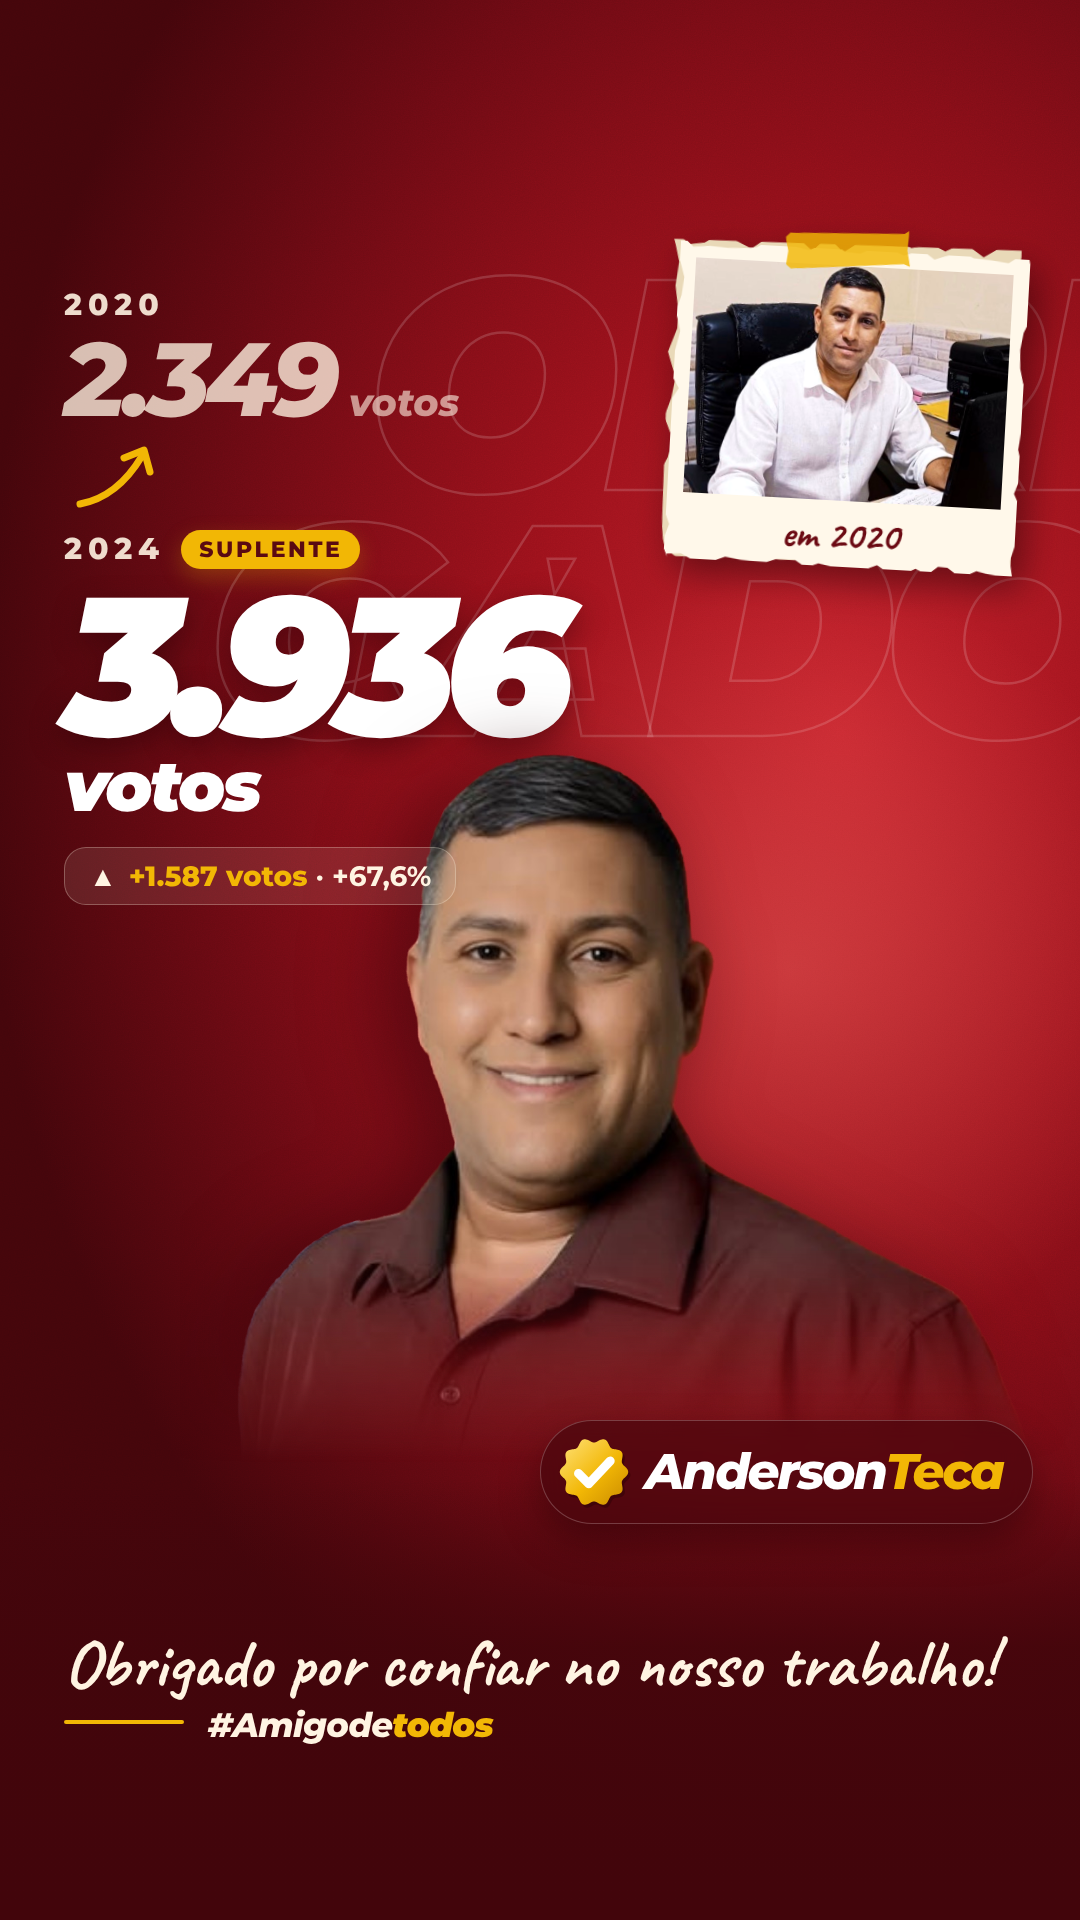
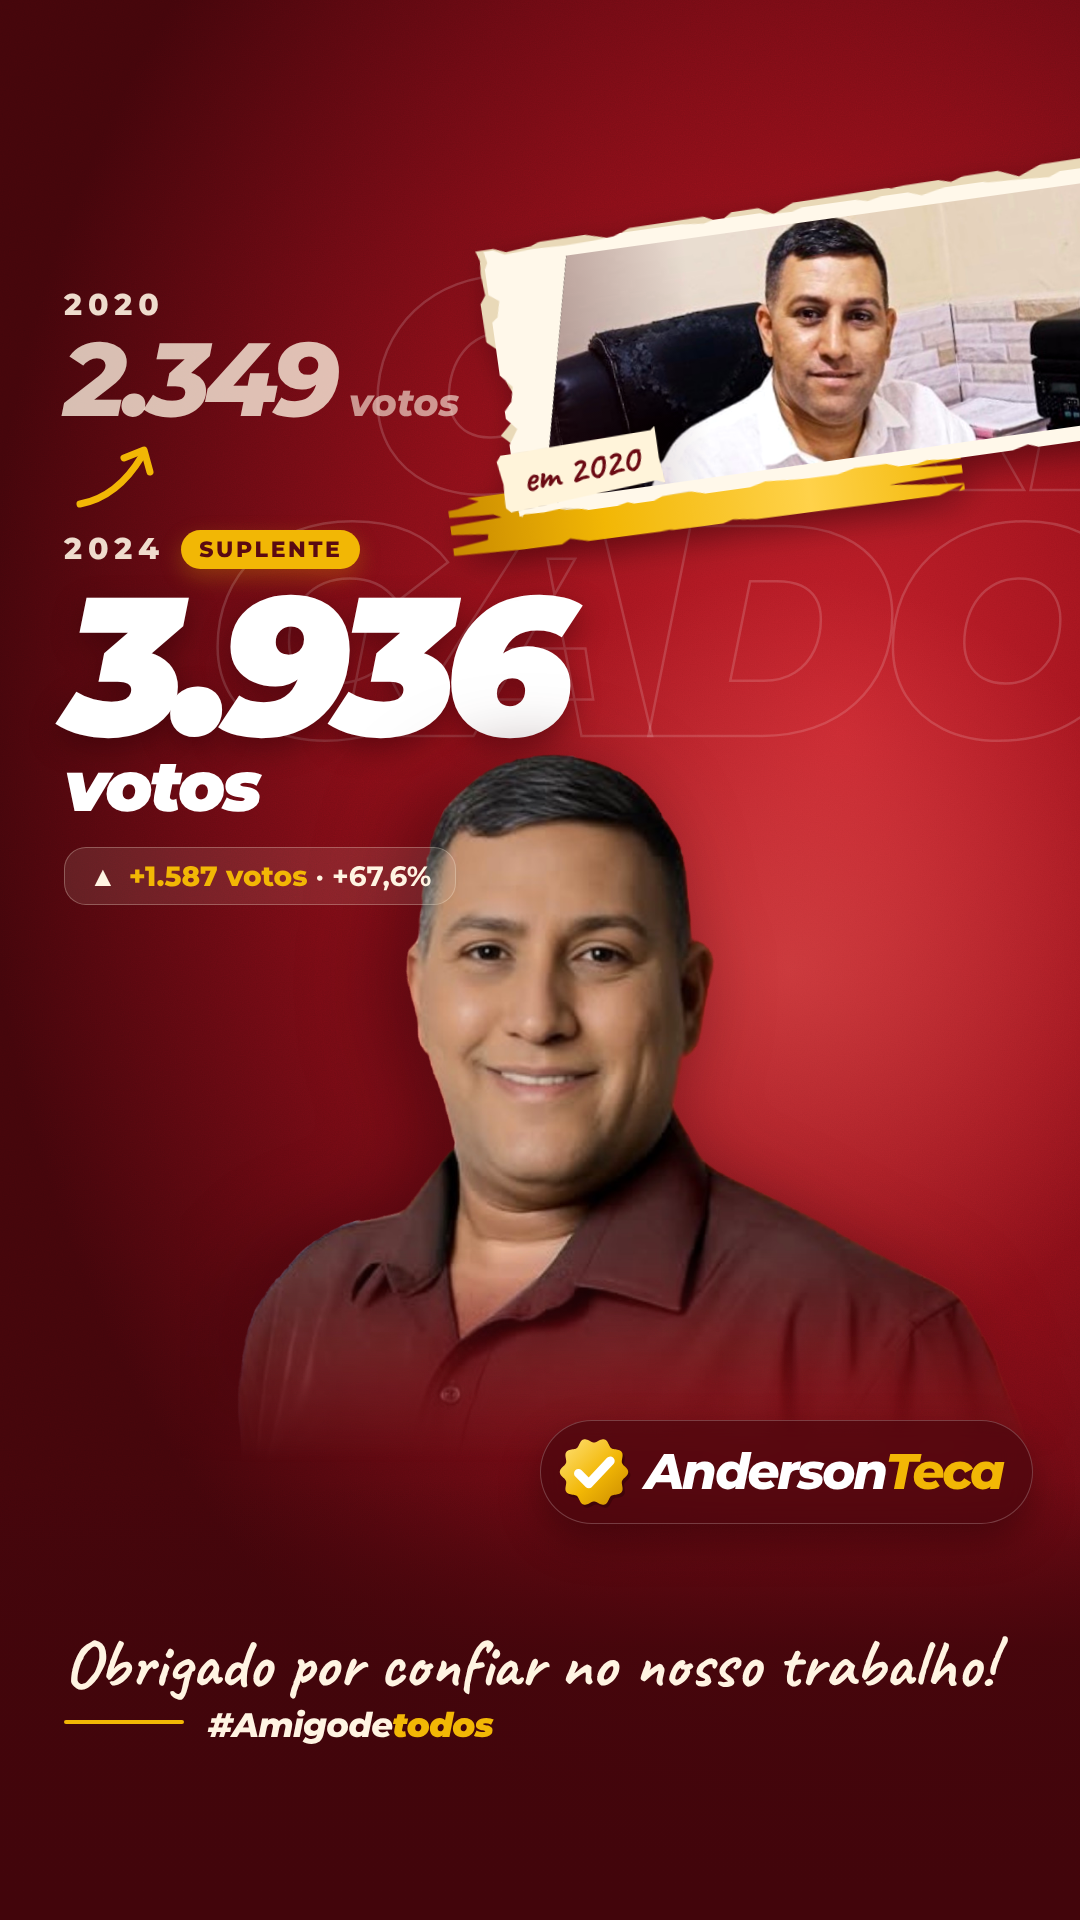
Anderson Teca v4: foto de 2020 em faixa diagonal de papel rasgado
Claude-Session: https://claude.ai/code/session_01Y4FBjftjKYjL6a6dxycj4C

Changed region(s): [[0.3972, 0.0625, 1.0, 0.3125]]

diff --git a/artes-clientes/anderson-teca/arte.html b/artes-clientes/anderson-teca/arte.html
@@ -32,14 +32,17 @@
   .n24 .v { font:italic 900 70px/1 'Montserrat'; letter-spacing:-.04em; color:#fff; margin-top:4px }
   .chip { position:relative; z-index:4; display:inline-flex; align-items:center; gap:12px; margin-top:26px; padding:14px 24px; border-radius:22px; background:rgba(255,244,226,.1); border:1.5px solid rgba(255,244,226,.28); font:700 28px/1 'Montserrat'; color:var(--cream) }
   .chip b { font-weight:800; color:var(--gold) }
-  /* recorte de papel com a foto de 2020 */
-  #p20 { z-index:2; transform-origin:50% 50%; filter:drop-shadow(10px 14px 18px rgba(30,0,4,.5)) }
+  /* faixa diagonal de papel rasgado com a foto de 2020 */
+  #p20 { z-index:2; transform-origin:50% 50% }
+  #p20 .wrap { position:absolute; inset:0; filter:drop-shadow(8px 12px 16px rgba(30,0,4,.5)) }
+  #p20 .stroke { position:absolute; background:linear-gradient(90deg,#C98A00,#F2B705 30%,#FFD24A 70%,#F2B705) }
   #p20 .back { position:absolute; inset:0; background:#E9D9B8 }
   #p20 .sheet { position:absolute; inset:0; background:#FFF8EA }
   #p20 .ph { position:absolute; overflow:hidden; background:#000 }
-  #p20 .ph img { width:100%; height:100%; object-fit:cover; object-position:50% 32%; display:block; filter:contrast(1.04) saturate(1.05) }
-  #p20 .cap { position:absolute; left:0; right:0; text-align:center; font:700 40px/1 'Caveat'; color:#6B0A13; transform:rotate(-1.5deg) }
-  #p20 .tape { position:absolute; width:124px; height:36px; background:rgba(242,183,5,.82); box-shadow:0 4px 10px rgba(40,0,6,.25); clip-path:polygon(0 12%,4% 0,96% 8%,100% 0,98% 55%,100% 100%,95% 92%,4% 100%,0 88%,2% 50%) }
+  #p20 .ph img { position:absolute; inset:0; width:100%; height:100%; object-fit:cover; object-position:50% 4%; display:block; filter:contrast(1.05) saturate(1.06) }
+  #p20 .ph::after { content:''; position:absolute; inset:0; background:linear-gradient(90deg,rgba(60,6,12,.34),rgba(60,6,12,0) 28%) }
+  #p20 .lbl { position:absolute; padding:8px 22px 10px; background:#FFF4DA; color:#6B0A13; font:700 40px/1 'Caveat'; transform:rotate(-3deg); box-shadow:0 6px 14px rgba(30,0,4,.4);
+    clip-path:polygon(0 10%,3% 0,97% 6%,100% 0,99% 55%,100% 100%,95% 93%,3% 100%,0 90%,1.5% 50%) }
   /* rodapé */
   #foot { z-index:4; left:0; width:1080px; background:linear-gradient(180deg,rgba(66,5,11,0),rgba(66,5,11,.85) 38%,#42050B) }
   #thanks { z-index:6; left:64px; right:64px; font:700 68px/1 'Caveat'; color:var(--cream); white-space:nowrap }
@@ -61,7 +64,7 @@
     <div class="n24"><div class="n">3.936</div><div class="v">votos</div></div>
     <div class="chip">▲ <span><b>+1.587 votos</b> · +67,6%</span></div>
   </div>
-  <div class="abs" id="p20"><div class="back"></div><div class="sheet"></div><div class="ph"><img src="work/anderson2020.jpg"></div><div class="cap">em 2020</div><div class="tape"></div></div>
+  <div class="abs" id="p20"><div class="wrap"><div class="stroke"></div><div class="back"></div><div class="sheet"></div><div class="ph"><img src="work/anderson2020.jpg"></div><div class="lbl">em 2020</div></div></div>
   <div class="abs" id="logo"><svg width="74" height="74" viewBox="-50 -50 100 100" id="check"></svg><div class="wm">Anderson<b>Teca</b></div></div>
   <div class="abs" id="thanks">Obrigado por confiar no nosso trabalho!</div>
   <div class="abs" id="rule"></div>
@@ -69,8 +72,8 @@
 </div>
 <script>
 const F = new URLSearchParams(location.search).get('f') || 'feed'
-const L = { feed:  { p20:[684, 60, 330, 3.2], H:1350, ghost:120, glow:[380, 120], me:[345, 300, 860],  logo:[560, 1010], col:96,  foot:[1050, 300], thanks:1180, rule:1268, tag:1256 },
-            story: { p20:[672, 250, 350, 3.2], H:1920, ghost:260, glow:[340, 520], me:[180, 640, 1000], logo:[540, 1420], col:290, foot:[1480, 440], thanks:1630, rule:1720, tag:1708 } }[F]
+const L = { feed:  { p20:[528, 60, 640, 250, -8], H:1350, ghost:120, glow:[380, 120], me:[345, 300, 860],  logo:[560, 1010], col:96,  foot:[1050, 300], thanks:1180, rule:1268, tag:1256 },
+            story: { p20:[498, 205, 660, 270, -8], H:1920, ghost:260, glow:[340, 520], me:[180, 640, 1000], logo:[540, 1420], col:290, foot:[1480, 440], thanks:1630, rule:1720, tag:1708 } }[F]
 const $ = id => document.getElementById(id), art = $('art')
 art.style.height = L.H + 'px'; document.body.style.height = L.H + 'px'
 $('ghost').style.top = L.ghost + 'px'
@@ -93,12 +96,16 @@ const tornPoly = (amp, step) => { const pts = []; const N = 14
   for (let x = 100; x >= 0; x -= step + rnd() * step) pts.push([x, 100 + (rnd() - .5) * amp])
   for (let y = 100; y >= 0; y -= step * 1.6 + rnd() * step) pts.push([(rnd() - .5) * amp, y])
   return 'polygon(' + pts.map(([x, y]) => x.toFixed(1) + '% ' + y.toFixed(1) + '%').join(',') + ')' }
-{ const [l, t, w, rot] = L.p20, pad = 16, ph = Math.round((w - pad * 2) * 0.74), h = pad + ph + 66
+{ const [l, t, w, h, rot] = L.p20, pad = 15
   const e = $('p20'); e.style.cssText += `left:${l}px;top:${t}px;width:${w}px;height:${h}px;transform:rotate(${rot}deg)`
-  e.querySelector('.back').style.clipPath = tornPoly(5.5, 3.2); e.querySelector('.back').style.transform = 'translate(-6px,-5px) rotate(-1.2deg)'
-  sd = 41; e.querySelector('.sheet').style.clipPath = tornPoly(3.6, 2.6)
-  const f = e.querySelector('.ph'); f.style.cssText += `left:${pad}px;top:${pad}px;width:${w - pad * 2}px;height:${ph}px`
-  const c = e.querySelector('.cap'); c.style.top = (pad + ph + 14) + 'px'
-  const tp = e.querySelector('.tape'); tp.style.left = (w / 2 - 70) + 'px'; tp.style.top = '-18px'; tp.style.transform = 'rotate(-4deg)' }
+  const q = e.querySelector('.back'); q.style.clipPath = tornPoly(7, 3); q.style.transform = 'translate(-8px,-6px) rotate(-.8deg)'
+  sd = 41; e.querySelector('.sheet').style.clipPath = tornPoly(4.2, 2.4)
+  const f = e.querySelector('.ph'); f.style.left = (pad + 12) + 'px'; f.style.top = pad + 'px'; f.style.width = (w - pad * 2 - 12) + 'px'; f.style.height = (h - pad * 2) + 'px'
+  f.style.clipPath = 'polygon(9% 0,100% 0,100% 100%,0 100%)'   // corte diagonal na ponta esquerda
+  // faixa dourada de pincel espiando por baixo, como nas referências
+  const st = e.querySelector('.stroke'); sd = 77
+  st.style.left = '-70px'; st.style.width = (w * .78) + 'px'; st.style.top = (h - 26) + 'px'; st.style.height = '58px'
+  st.style.clipPath = tornPoly(30, 4); st.style.transform = 'rotate(.6deg)'
+  const lb = e.querySelector('.lbl'); lb.style.left = '-14px'; lb.style.top = (h - 70) + 'px' }
 window.ready = document.fonts.ready.then(() => $('me').decode())
 </script></body></html>

diff --git a/artes-clientes/anderson-teca/LEIAME.md b/artes-clientes/anderson-teca/LEIAME.md
@@ -1,6 +1,6 @@
 # Anderson Teca: agradecimento pelos votos (feed 1080×1350 e story 1080×1920)
 
 Dados (prints do app Politique, Nova Iguaçu, vereador): 2020 = 2.349 votos; 2024 = 3.936 votos.
-2024: suplente (2020 sem rótulo; foto de 2020 em recorte de papel, work/anderson2020.jpg). Diferença: +1.587 votos (+67,6%). Sem número de urna e sem logo de partido.
+2024: suplente (2020 sem rótulo; foto de 2020 em faixa diagonal de papel rasgado com pincel dourado, work/anderson2020.jpg). Diferença: +1.587 votos (+67,6%). Sem número de urna e sem logo de partido.
 Versão 2: vinho/carmim com dourado só nos detalhes (sem cara de fast-food); foto do Anderson sozinho na lateral (work/anderson.png, recorte por work/cut2.py), logo colada na foto. Cores e símbolo da campanha: vermelho + amarelo, marca "AndersonTeca", selo de check, #Amigodetodos.
 `arte.html?f=feed|story` + `render.cjs` (Playwright). Recorte das pessoas: `work/cut.py` (MediaPipe).
